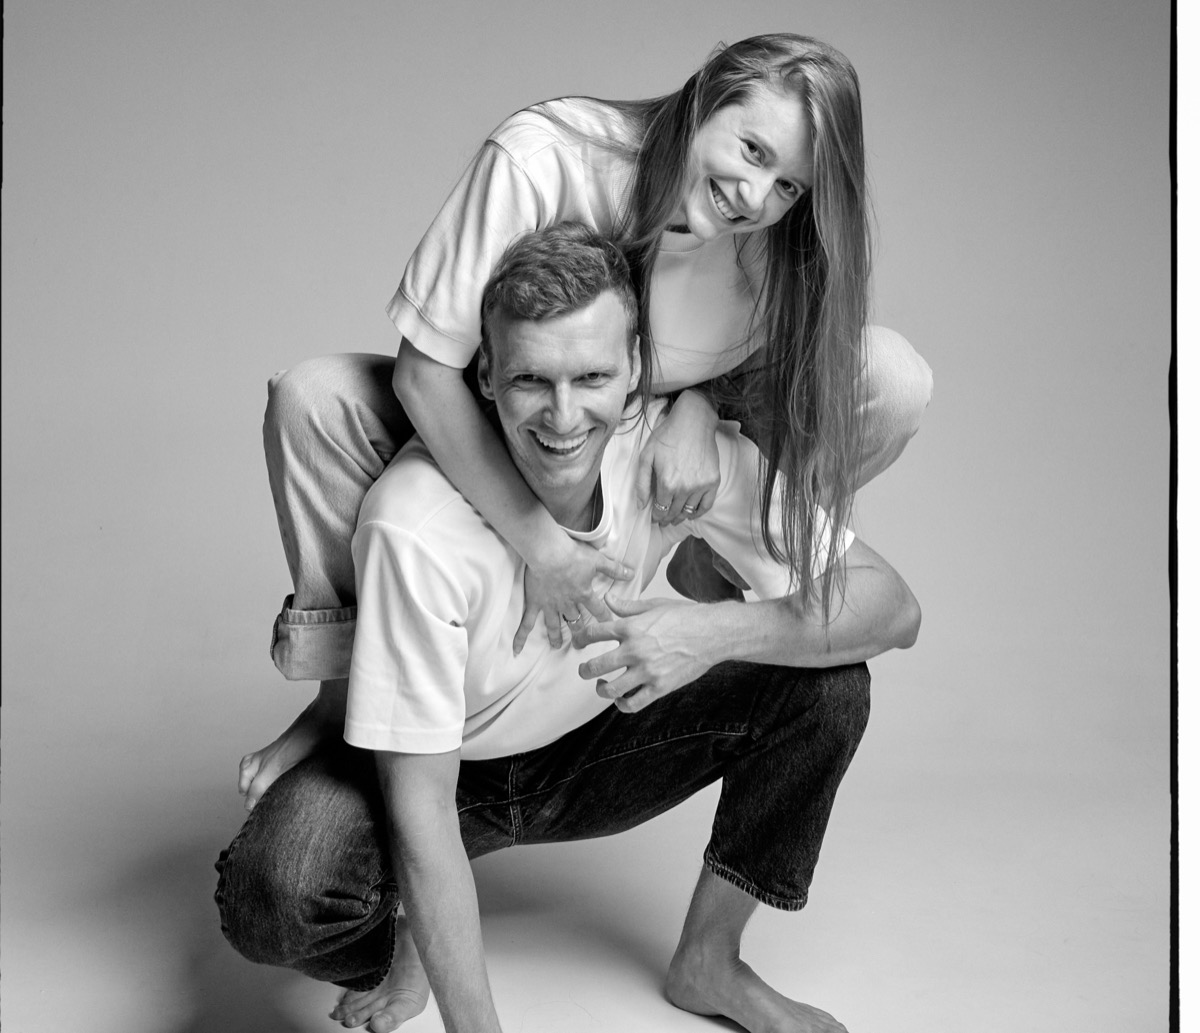
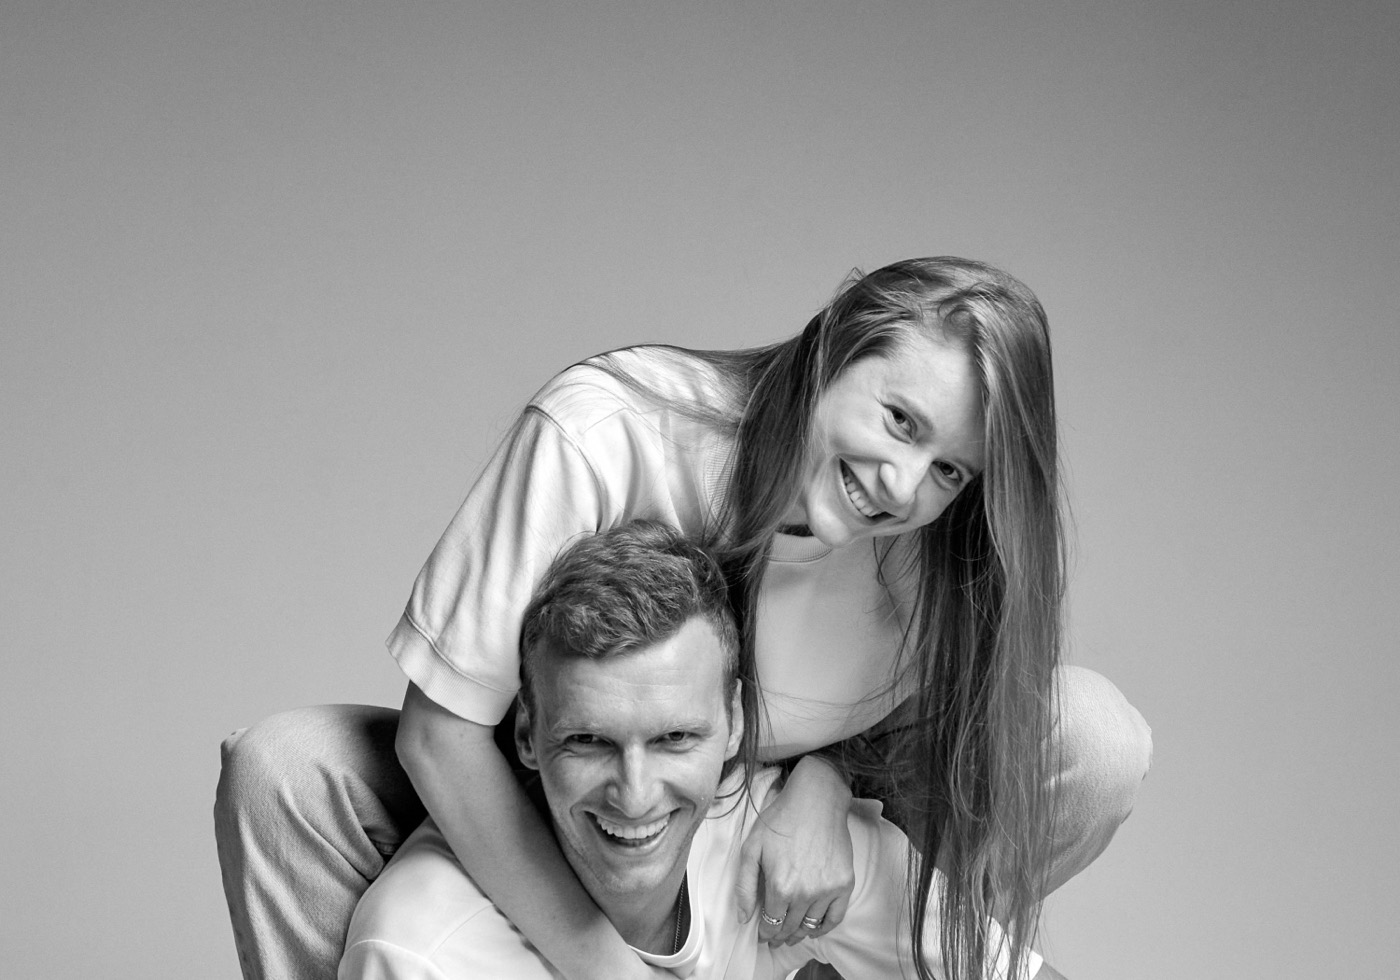
Ровные колонки календаря и кадр отсчёта с запасом над головами
Сердце в календаре занимало место в потоке и раздувало колонку «Пт»
шире остальных. Теперь оно позиционировано абсолютно, а таблице задан
table-layout: fixed — все семь колонок ровно по 49 px, разброс 0.

Фон отсчёта переснят: исходный портрет почти квадратный, и на широкой
секции cover резал головы. Кадр переведён в горизонтальный и
центрирован на обоих лицах, секции добавлена высота, чтобы над
головами оставался воздух.

diff --git a/styles.css b/styles.css
@@ -50,9 +50,12 @@ img { max-width: 100%; display: block; }
     linear-gradient(rgba(14, 13, 12, 0.72), rgba(14, 13, 12, 0.72)),
     url("assets/timer-bg.jpg");
   background-size: auto, cover;
-  background-position: center, center 22%;
+  background-position: center, center 18%;
   background-repeat: no-repeat;
   color: #ddd6cc;
+  /* секция выше обычной: при плоском соотношении сторон фотографию
+     обрезало по головам, а нужен воздух над ними */
+  padding: 62px 0;
 }
 
 .wrap {
@@ -187,6 +190,7 @@ img { max-width: 100%; display: block; }
 /* ---------- Календарь ---------- */
 .calendar {
   width: 100%;
+  table-layout: fixed;
   border-collapse: collapse;
   margin: 18px 0 0;
   font-family: var(--font-body);
@@ -216,19 +220,12 @@ img { max-width: 100%; display: block; }
   color: var(--ink);
 }
 
+/* Сердечко выведено из потока: иначе его ширина раздувала колонку «Пт»
+   и вся сетка съезжала. Ячейка остаётся такой же, как соседние. */
 .calendar .is-wedding {
+  position: relative;
   color: var(--wine);
   font-weight: 700;
-  padding: 0;
-}
-
-.calendar .heart {
-  position: relative;
-  display: inline-flex;
-  align-items: center;
-  justify-content: center;
-  width: 38px;
-  height: 38px;
 }
 
 .calendar .heart svg {
@@ -237,17 +234,20 @@ img { max-width: 100%; display: block; }
   top: 50%;
   width: 38px;
   height: 38px;
+  margin-top: -1px;
   transform: translate(-50%, -50%);
   fill: none;
   stroke: var(--wine);
   stroke-width: 1.7;
   stroke-linejoin: round;
+  pointer-events: none;
 }
 
 /* цифра садится чуть выше центра — у сердца низ острый */
 .calendar .heart-num {
   position: relative;
-  padding-bottom: 3px;
+  display: inline-block;
+  transform: translateY(-1px);
 }
 
 /* ---------- Тайминг ---------- */
@@ -408,5 +408,6 @@ img { max-width: 100%; display: block; }
 @media (min-width: 720px) {
   body { font-size: 17px; }
   .section { padding: 64px 0; }
+  .section--night { padding: 160px 0; }
   :root { --pad: 32px; }
 }

diff --git a/docs/superpowers/specs/2026-09-09-wedding-invitation-design.md b/docs/superpowers/specs/2026-09-09-wedding-invitation-design.md
@@ -43,7 +43,7 @@ assets/
   cover.jpg         960×1280   пара, сердечко руками (ч/б)
   outro.jpg         960×1280   пара, в шляпе (ч/б)
   venue.jpg         1240×620   фасад дома Пушкина, стрелка «ВХОД» впечатана
-  timer-bg.jpg      1200×1033  фон блока с отсчётом
+  timer-bg.jpg      1400×980   фон блока с отсчётом
   og-preview.jpg    1200×630   превью ссылки для мессенджеров
 .nojekyll           отключает обработку Jekyll на Pages
 .gitignore          .DS_Store, .superpowers/
@@ -67,7 +67,7 @@ git, удаление обратимо.
 | `photo_2026-09-09 11.42.30.jpeg` | `assets/cover.jpg` | без изменений (76 КБ) |
 | `photo_2026-09-09 11.42.37.jpeg` | `assets/outro.jpg` | без изменений (96 КБ) |
 | `Пушкина.jpg copy.jpg` | `assets/venue.jpg` | `sips -Z 1240 -s formatOptions 48` → ≈ 200 КБ |
-| `Анастасия 0517.jpg` | `assets/timer-bg.jpg` | кадрируется (`-c 3100 3600 --cropOffset 1900 300`), затем `-Z 1200 -s formatOptions 76` → ≈ 200 КБ |
+| `Анастасия 0517.jpg` | `assets/timer-bg.jpg` | кадрируется (`-c 2100 3000 --cropOffset 1450 630`), затем `-Z 1400 -s formatOptions 76` → ≈ 247 КБ |
 | `Пушкина.jpg.webp` | не используется | см. «WebP не применяется» ниже |
 
 **WebP не применяется.** `sips` на этой машине собран без записи webp
@@ -157,8 +157,11 @@ Playfair — обе дидоны с высоким контрастом, две 
 
 ### 3. Календарь
 
-Заголовок `Октябрь 2026`, сетка понедельник–воскресенье, 9-е число обведено сердечком
-цвета `--wine`.
+Заголовок `Октябрь 2026`, сетка понедельник–воскресенье, 9-е число обведено
+контуром сердца цвета `--wine`.
+
+Таблице задан `table-layout: fixed`, а сердце выведено из потока абсолютным
+позиционированием. Иначе его ширина раздувала колонку «Пт» и вся сетка съезжала.
 
 Сетка октября 2026: 1-е — четверг, 9-е — пятница, в месяце 31 день.
 
@@ -198,8 +201,12 @@ Playfair — обе дидоны с высоким контрастом, две 
 
 Снимок светлый — белые футболки на сером фоне, — поэтому белый текст поверх него
 без затемнения нечитаем. Вуаль решает это и сохраняет узнаваемость кадра.
-Исходник кадрируется так, чтобы убрать чёрную плёночную рамку: она проступала по
-краям секции и читалась как дефект вёрстки. Прежде здесь была сплошная тёмная
+Исходник кадрируется дважды по разным причинам. Сначала — чтобы убрать чёрную
+плёночную рамку: она проступала по краям секции и читалась как дефект вёрстки.
+Затем кадр переведён в горизонтальный (3000×2100) и центрирован на обоих лицах:
+исходный портрет почти квадратный, и на широкой секции `cover` резал головы.
+Секции задана увеличенная высота (`padding: 62px`, на десктопе `160px`) — при
+плоском соотношении сторон обрезка неизбежна, и высота даёт кадру воздух. Прежде здесь была сплошная тёмная
 заливка, выбранная по такой причине:
 имеющиеся снимки светлые, белый текст поверх них нечитаем, а тёмный разворот
 среди светлых полос даёт тот же ритм, что в референсе.
